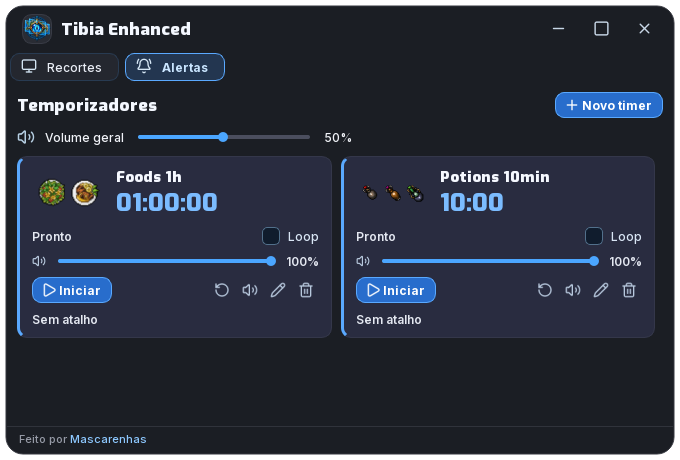
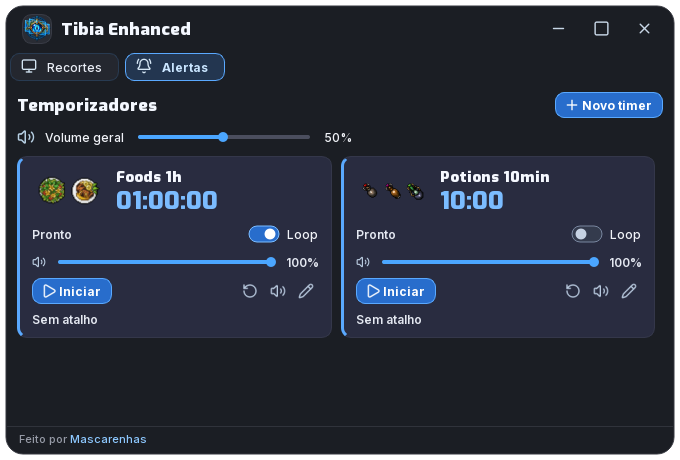
Use loop switches and protect default timers

diff --git a/src/tibiaenhanced/ui/audio_panel.py b/src/tibiaenhanced/ui/audio_panel.py
@@ -8,13 +8,13 @@ from PySide6.QtCore import QSize, Qt, QTimer, QUrl
 from PySide6.QtGui import QKeySequence, QPainter, QPixmap, QShortcut
 from PySide6.QtMultimedia import QAudioOutput, QMediaPlayer
 from PySide6.QtWidgets import (
-    QCheckBox, QDialog, QFileDialog, QFormLayout, QFrame, QGridLayout, QHBoxLayout, QLabel,
+    QDialog, QFileDialog, QFormLayout, QFrame, QGridLayout, QHBoxLayout, QLabel,
     QKeySequenceEdit, QLineEdit, QMessageBox, QPushButton, QScrollArea, QSpinBox,
     QVBoxLayout, QWidget,
 )
 
 from ..services.audio_timer import AudioTimer
-from .design import heading_font, icon
+from .design import ToggleCheckBox, heading_font, icon
 from .design import CompactSlider as QSlider
 from .dialog_shell import StyledDialog
 
@@ -82,7 +82,8 @@ class TimerDialog(StyledDialog):
         self.volume_input = QSlider(Qt.Orientation.Horizontal, accent="#4ba6ff")
         self.volume_input.setRange(0, 100)
         self.volume_input.setValue(round(timer.volume * 100) if timer else 100)
-        self.loop_input = QCheckBox("Reiniciar automaticamente ao terminar")
+        self.loop_input = ToggleCheckBox("Reiniciar automaticamente")
+        self.loop_input.setToolTip("Reiniciar automaticamente ao terminar")
         self.loop_input.setChecked(timer.loop if timer else False)
         self.shortcut_input = QKeySequenceEdit()
         self.shortcut_input.setKeySequence(QKeySequence(timer.shortcut if timer else ""))
@@ -132,10 +133,11 @@ class TimerDialog(StyledDialog):
 
 
 class TimerCard(QFrame):
-    def __init__(self, timer: AudioTimer, panel: AudioPanel) -> None:
+    def __init__(self, timer: AudioTimer, panel: AudioPanel, *, removable: bool = True) -> None:
         super().__init__()
         self.timer = timer
         self.panel = panel
+        self.removable = removable
         self.setObjectName("timerCard")
         self.setFixedHeight(182)
         self.audio_output = QAudioOutput(self)
@@ -173,7 +175,7 @@ class TimerCard(QFrame):
         options = QHBoxLayout()
         options.addWidget(self.status)
         options.addStretch()
-        self.loop_check = QCheckBox("Loop")
+        self.loop_check = ToggleCheckBox("Loop")
         self.loop_check.setToolTip("Reiniciar automaticamente ao terminar")
         self.loop_check.setChecked(timer.loop)
         self.loop_check.toggled.connect(self._set_loop)
@@ -199,12 +201,14 @@ class TimerCard(QFrame):
         self.start_button.clicked.connect(self._toggle)
         buttons.addWidget(self.start_button)
         buttons.addStretch()
-        for name, tooltip, callback in (
+        actions = [
             ("rotate-ccw", "Zerar temporizador", self._reset),
             ("volume-2", "Testar som", self.play_sound),
             ("pencil", "Editar temporizador e atalho", self._edit),
-            ("trash", "Excluir temporizador", lambda: panel.remove_card(self)),
-        ):
+        ]
+        if self.removable:
+            actions.append(("trash", "Excluir temporizador", lambda: panel.remove_card(self)))
+        for name, tooltip, callback in actions:
             button = QPushButton()
             button.setObjectName("iconButton")
             button.setFixedSize(25, 26)
@@ -346,23 +350,25 @@ class AudioPanel(QWidget):
         layout.addWidget(scroll, 1)
 
         for name, duration, sound, images in DEFAULT_TIMERS:
-            self.add_timer(AudioTimer(name, duration, sound, images=images))
+            self.add_timer(AudioTimer(name, duration, sound, images=images), removable=False)
         self.update_audio_volumes()
         self.ticker = QTimer(self)
         self.ticker.setInterval(200)
         self.ticker.timeout.connect(self._tick)
         self.ticker.start()
 
-    def add_timer(self, timer: AudioTimer) -> TimerCard:
+    def add_timer(self, timer: AudioTimer, *, removable: bool = True) -> TimerCard:
         if self.shortcut_conflict(QKeySequence(timer.shortcut)):
             raise ValueError("Atalho já usado por outro temporizador")
-        card = TimerCard(timer, self)
+        card = TimerCard(timer, self, removable=removable)
         self.cards.append(card)
         self._reflow_cards()
         self.update_audio_volumes()
         return card
 
     def remove_card(self, card: TimerCard) -> None:
+        if card not in self.cards or not card.removable:
+            return
         card.timer.reset()
         card.player.stop()
         self.cards.remove(card)

diff --git a/src/tibiaenhanced/ui/design.py b/src/tibiaenhanced/ui/design.py
@@ -3,10 +3,10 @@
 from functools import lru_cache
 from pathlib import Path
 
-from PySide6.QtCore import QByteArray, QEvent, QObject, QPointF, Qt
+from PySide6.QtCore import QByteArray, QEvent, QObject, QPointF, QRectF, QSize, Qt
 from PySide6.QtGui import QColor, QFont, QFontDatabase, QIcon, QPainter, QPen, QPixmap
 from PySide6.QtSvg import QSvgRenderer
-from PySide6.QtWidgets import QSlider, QStyle, QStyleOptionSlider
+from PySide6.QtWidgets import QCheckBox, QSlider, QStyle, QStyleOptionSlider
 
 
 ASSETS = Path(__file__).resolve().parents[1]
@@ -94,3 +94,37 @@ class CompactSlider(QSlider):
             painter.setBrush(Qt.BrushStyle.NoBrush)
             painter.setPen(QPen(accent.lighter(140), 1))
             painter.drawEllipse(QPointF(x, y), 7, 7)
+
+
+class ToggleCheckBox(QCheckBox):
+    """Interruptor de loop que preserva clique, teclado e semântica de checkbox."""
+
+    def sizeHint(self) -> QSize:
+        return QSize(40 + self.fontMetrics().horizontalAdvance(self.text()), 24)
+
+    def paintEvent(self, event) -> None:
+        painter = QPainter(self)
+        painter.setRenderHint(QPainter.RenderHint.Antialiasing)
+        track = QRectF(1, (self.height() - 16) / 2, 30, 16)
+        if self.isEnabled():
+            fill = QColor("#286dcc" if self.isChecked() else "#343b4d")
+            outline = QColor("#7bbcff" if self.isChecked() else "#78869f")
+            knob = QColor("#ffffff" if self.isChecked() else "#c6d2e3")
+        else:
+            fill = QColor("#303441")
+            outline = QColor("#626b7e")
+            knob = QColor("#8e9aac")
+        painter.setPen(QPen(outline, 1))
+        painter.setBrush(fill)
+        painter.drawRoundedRect(track, 8, 8)
+        painter.setPen(Qt.PenStyle.NoPen)
+        painter.setBrush(knob)
+        painter.drawEllipse(QPointF(22 if self.isChecked() else 10, self.height() / 2), 5.5, 5.5)
+        if self.hasFocus():
+            painter.setPen(QPen(QColor("#b9dcff"), 1))
+            painter.setBrush(Qt.BrushStyle.NoBrush)
+            painter.drawRoundedRect(track.adjusted(-2, -2, 2, 2), 10, 10)
+        painter.setPen(QColor("#f1f3f8" if self.isEnabled() else "#8e9aac"))
+        painter.setFont(self.font())
+        painter.drawText(QRectF(39, 0, self.width() - 39, self.height()),
+                         Qt.AlignmentFlag.AlignLeft | Qt.AlignmentFlag.AlignVCenter, self.text())

diff --git a/tests/test_audio_timers.py b/tests/test_audio_timers.py
@@ -6,11 +6,12 @@ from pathlib import Path
 
 os.environ.setdefault("QT_QPA_PLATFORM", "offscreen")
 
-from PySide6.QtWidgets import QApplication  # noqa: E402
+from PySide6.QtWidgets import QApplication, QPushButton  # noqa: E402
 from PySide6.QtGui import QKeySequence  # noqa: E402
 
 from tibiaenhanced.services.audio_timer import AudioTimer  # noqa: E402
-from tibiaenhanced.ui.audio_panel import AudioPanel, DEFAULT_TIMERS  # noqa: E402
+from tibiaenhanced.ui.audio_panel import AudioPanel, DEFAULT_TIMERS, TimerDialog  # noqa: E402
+from tibiaenhanced.ui.design import ToggleCheckBox  # noqa: E402
 
 
 class AudioTimerTests(unittest.TestCase):
@@ -71,6 +72,29 @@ class AudioPanelTests(unittest.TestCase):
             self.assertTrue(all(image.is_file() for image in images))
         self.assertTrue(all(not card.art.pixmap().isNull() for card in panel.cards))
         self.assertTrue(all(not card.shortcut_binding.isEnabled() for card in panel.cards))
+        self.assertTrue(all(not card.removable for card in panel.cards))
+        self.assertTrue(all(isinstance(card.loop_check, ToggleCheckBox) for card in panel.cards))
+        self.assertTrue(all(not any(button.toolTip() == "Excluir temporizador"
+                                    for button in card.findChildren(QPushButton))
+                            for card in panel.cards))
+        panel.close()
+
+    def test_default_timers_cannot_be_deleted_but_custom_timer_can(self) -> None:
+        panel = AudioPanel()
+        defaults = tuple(panel.cards)
+        for card in defaults:
+            panel.remove_card(card)
+        self.assertEqual(tuple(panel.cards), defaults)
+        custom = panel.add_timer(AudioTimer("Personalizado", 120, DEFAULT_TIMERS[0][2]))
+        self.assertTrue(custom.removable)
+        self.assertTrue(any(button.toolTip() == "Excluir temporizador"
+                            for button in custom.findChildren(QPushButton)))
+        custom.loop_check.click()
+        self.assertTrue(custom.timer.loop)
+        panel.remove_card(custom)
+        self.assertEqual(tuple(panel.cards), defaults)
+        dialog = TimerDialog(panel, defaults[0].timer)
+        self.assertIsInstance(dialog.loop_input, ToggleCheckBox)
         panel.close()
 
     def test_shortcut_restarts_timer_and_detects_conflict(self) -> None:

diff --git a/docs/modern-ui.md b/docs/modern-ui.md
@@ -6,6 +6,7 @@ Interface PySide6 inspirada na densidade visual da referência TibiaVision: fund
 - Ícones **Lucide** com tooltips e nomes acessíveis. Botões, abas, combos e sliders usam cursor de mão quando habilitados.
 - Recortes em grade, com mostrar/ocultar, bloqueio, exclusão e opacidade diretamente no card. O lápis abre as configurações detalhadas.
 - Temporizadores em grade adaptável, com iniciar/pausar, volume, loop, teste de som e edição do atalho. Os sliders de áudio e de recortes usam tons de azul.
+- O Loop usa um interruptor arredondado nos cards e no diálogo de edição. Foods e Potions são temporizadores padrão e não podem ser excluídos; apenas os timers criados pelo usuário mostram a ação de excluir.
 - Sliders com trilho fino arredondado, mantendo interação nativa por teclado e arraste.
 - Barra de título própria com ícone, minimizar, maximizar e fechar; bordas redimensionáveis.
 - Rodapé “Feito por Mascarenhas”, com link para o GitHub do autor.

diff --git a/README.md b/README.md
@@ -49,6 +49,8 @@ Para executar os testes de estrutura e responsividade:
 
 Quando a bandeja do sistema está disponível, fechar a janela a oculta; o menu do ícone oferece **Mostrar**, **Ocultar** e **Sair**. Sem bandeja, fechar a janela encerra o aplicativo.
 
+Foods e Potions são temporizadores padrão e não podem ser excluídos. O controle **Loop** usa um interruptor arredondado; temporizadores criados pelo usuário podem ser excluídos pelo próprio card.
+
 ## Referências
 
 - [Como funciona o TibiaVision](https://tibiavision.com/how-it-works)
